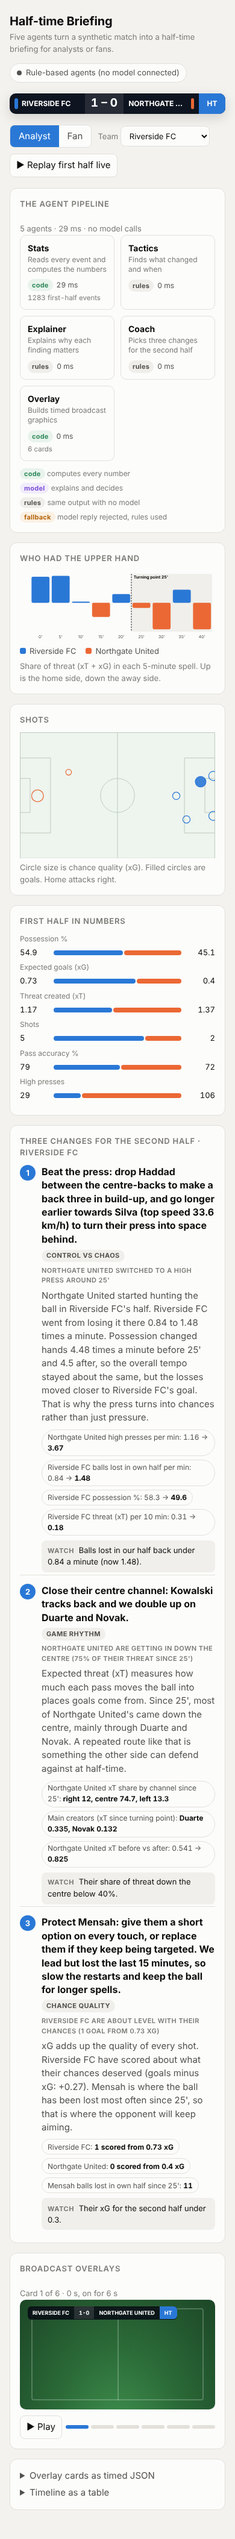
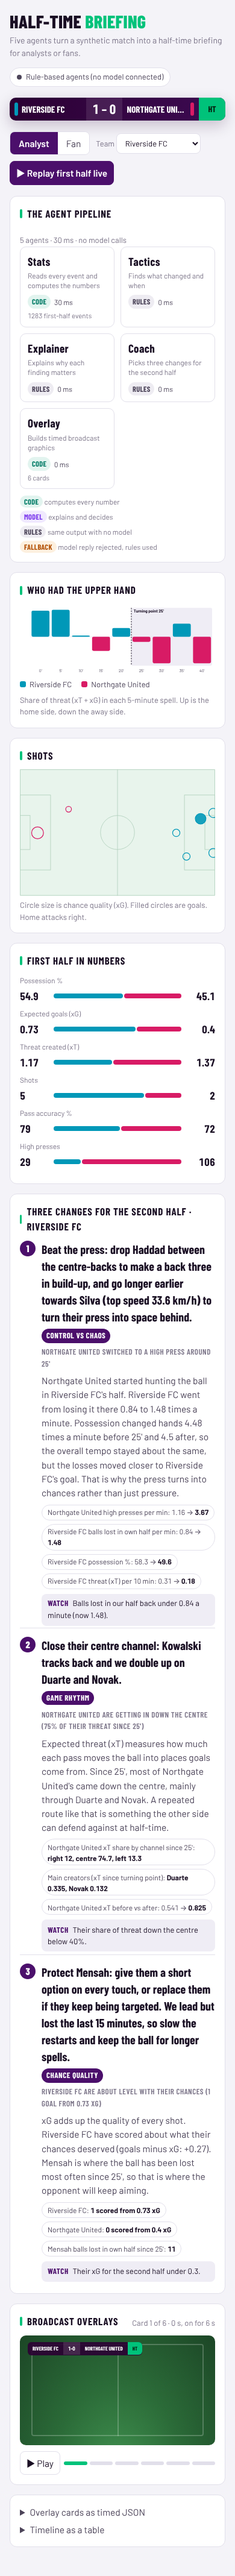
feat(ui): switch to Barlow type and a purple, cyan and magenta palette
Barlow and Barlow Condensed from Google Fonts (system fallback), deep
purple scorebug and controls, green highlight, cyan home and magenta away
in both themes. Screenshots refreshed.

Verified: ruff format --check, ruff check, pytest; headless Chromium on
seed 27 in light, dark and 390 px.

Claude-Session: https://claude.ai/code/session_0187mFhyTJEdgQixfm9bBxoV

diff --git a/static/index.html b/static/index.html
@@ -4,84 +4,96 @@
 <meta charset="utf-8">
 <meta name="viewport" content="width=device-width, initial-scale=1">
 <title>Half-time Briefing</title>
+<link rel="preconnect" href="https://fonts.googleapis.com">
+<link rel="preconnect" href="https://fonts.gstatic.com" crossorigin>
+<link href="https://fonts.googleapis.com/css2?family=Barlow:wght@400;500;600;700&family=Barlow+Condensed:wght@500;600;700;800&display=swap" rel="stylesheet">
 <style>
   :root {
     color-scheme: light;
-    --surface-0: #f3f2ef; --surface-1: #fcfcfb; --surface-2: #f0efeb; --border: #e2e0da;
-    --text-primary: #0b0b0b; --text-secondary: #52514e; --text-muted: #7a7974;
-    --home: #2a78d6; --away: #eb6834; --accent: #2a78d6; --pitch: #eef4ee; --pitch-line: #b9c9b9;
-    --model: #7a4fd6; --model-bg: #f1ecfb; --rules: #52514e; --rules-bg: #efeeea;
-    --data: #2f8a5b; --data-bg: #e8f3ec; --warn: #b5650d; --warn-bg: #fbf0e2;
-    --bug: #0e1420; --bug-text: #ffffff;
+    --surface-0: #f4f3f8; --surface-1: #ffffff; --surface-2: #efedf5; --border: #e1dfea;
+    --text-primary: #1a0f24; --text-secondary: #4c4459; --text-muted: #7b7488;
+    --home: #0098b8; --away: #d81b65; --accent: #4b0f6b; --accent-text: #ffffff; --hi: #00c27a; --hi-text: #06210f;
+    --pitch: #e8f4ec; --pitch-line: #b5d3c0;
+    --model: #7c3aed; --model-bg: #f0e9fe; --rules: #4c4459; --rules-bg: #eeecf2;
+    --data: #087f6a; --data-bg: #e2f4ef; --warn: #b45309; --warn-bg: #fdf0df;
+    --bug: linear-gradient(90deg, #2b0033, #3d0a52); --bug-text: #ffffff; --live: #ff2d55;
+    --font-body: "Barlow", system-ui, -apple-system, "Segoe UI", sans-serif;
+    --font-display: "Barlow Condensed", "Barlow", system-ui, sans-serif;
   }
   @media (prefers-color-scheme: dark) {
     :root:where(:not([data-theme="light"])) {
       color-scheme: dark;
-      --surface-0: #111110; --surface-1: #1a1a19; --surface-2: #222220; --border: #33322f;
-      --text-primary: #f0efec; --text-secondary: #c3c2b7; --text-muted: #8f8e86;
-      --home: #3987e5; --away: #d95926; --accent: #3987e5; --pitch: #1d241d; --pitch-line: #3c4a3c;
-      --model: #a685f0; --model-bg: #261f38; --rules: #c3c2b7; --rules-bg: #262624;
-      --data: #5bbf8a; --data-bg: #1a2a21; --warn: #e3a050; --warn-bg: #33261a;
-      --bug: #000000; --bug-text: #ffffff;
+      --surface-0: #0f0a17; --surface-1: #181122; --surface-2: #221a2e; --border: #33293f;
+      --text-primary: #f3f0f8; --text-secondary: #c9c2d6; --text-muted: #8f879e;
+      --home: #22c3e6; --away: #ff4f93; --accent: #7c4dff; --accent-text: #ffffff; --hi: #00e58b; --hi-text: #06210f;
+      --pitch: #14231b; --pitch-line: #2f4a3a;
+      --model: #b18cff; --model-bg: #2a1d45; --rules: #c9c2d6; --rules-bg: #282131;
+      --data: #3fd0b0; --data-bg: #12302a; --warn: #f5a524; --warn-bg: #3a2810;
+      --bug: linear-gradient(90deg, #22002a, #3d0a52); --bug-text: #ffffff; --live: #ff2d55;
     }
   }
   :root[data-theme="dark"] {
     color-scheme: dark;
-    --surface-0: #111110; --surface-1: #1a1a19; --surface-2: #222220; --border: #33322f;
-    --text-primary: #f0efec; --text-secondary: #c3c2b7; --text-muted: #8f8e86;
-    --home: #3987e5; --away: #d95926; --accent: #3987e5; --pitch: #1d241d; --pitch-line: #3c4a3c;
-    --model: #a685f0; --model-bg: #261f38; --rules: #c3c2b7; --rules-bg: #262624;
-    --data: #5bbf8a; --data-bg: #1a2a21; --warn: #e3a050; --warn-bg: #33261a;
-    --bug: #000000; --bug-text: #ffffff;
+    --surface-0: #0f0a17; --surface-1: #181122; --surface-2: #221a2e; --border: #33293f;
+    --text-primary: #f3f0f8; --text-secondary: #c9c2d6; --text-muted: #8f879e;
+    --home: #22c3e6; --away: #ff4f93; --accent: #7c4dff; --accent-text: #ffffff; --hi: #00e58b; --hi-text: #06210f;
+    --pitch: #14231b; --pitch-line: #2f4a3a;
+    --model: #b18cff; --model-bg: #2a1d45; --rules: #c9c2d6; --rules-bg: #282131;
+    --data: #3fd0b0; --data-bg: #12302a; --warn: #f5a524; --warn-bg: #3a2810;
+    --bug: linear-gradient(90deg, #22002a, #3d0a52); --bug-text: #ffffff; --live: #ff2d55;
   }
   * { box-sizing: border-box; }
   body { margin: 0; background: var(--surface-0); color: var(--text-primary);
-         font: 15px/1.5 system-ui, -apple-system, "Segoe UI", sans-serif; }
+         font: 15.5px/1.5 var(--font-body); }
+  h1, h2, h3, h4, .scorebug, .tv, .num, .node .name, .bars .v, .kind, .concept, .watch b, .tag { font-family: var(--font-display); }
   main { max-width: 1180px; margin: 0 auto; padding: 20px 16px 48px; }
   button, select { font: inherit; }
   button:disabled, select:disabled { opacity: .55; cursor: progress; }
 
   /* Header and broadcast-style scorebug */
   header { display: flex; flex-wrap: wrap; gap: 14px 24px; align-items: center; justify-content: space-between; }
-  .brand h1 { font-size: 20px; font-weight: 700; margin: 0; letter-spacing: -.01em; }
-  .brand p { margin: 2px 0 0; font-size: 13px; color: var(--text-muted); }
+  .brand h1 { font-size: 30px; font-weight: 800; margin: 0; letter-spacing: .01em; text-transform: uppercase; line-height: 1; }
+  .brand h1 em { font-style: normal; color: var(--hi); }
+  .brand p { margin: 6px 0 0; font-size: 14px; color: var(--text-muted); }
   .badge { display: inline-flex; align-items: center; gap: 7px; font-size: 13px; padding: 5px 11px;
            border-radius: 999px; border: 1px solid var(--border); background: var(--surface-1); color: var(--text-secondary); }
   .badge .dot { width: 8px; height: 8px; border-radius: 50%; background: var(--rules); }
   .badge.live .dot { background: var(--model); box-shadow: 0 0 0 3px var(--model-bg); }
   .scorebug { display: flex; align-items: stretch; margin-top: 18px; border-radius: 10px; overflow: hidden;
               background: var(--bug); color: var(--bug-text); width: fit-content; max-width: 100%;
-              box-shadow: 0 6px 20px rgba(0,0,0,.14); font-weight: 650; }
-  .scorebug .team { display: flex; align-items: center; gap: 10px; padding: 10px 16px; font-size: 18px;
+              box-shadow: 0 8px 24px rgba(43,0,51,.22); font-weight: 700; }
+  .scorebug .team { display: flex; align-items: center; gap: 10px; padding: 10px 18px; font-size: 22px;
                     text-transform: uppercase; letter-spacing: .03em; white-space: nowrap; }
   .scorebug .team::before { content: ""; width: 6px; align-self: stretch; border-radius: 3px; background: var(--c); }
   .scorebug .team.away { flex-direction: row-reverse; }
-  .scorebug .score { display: grid; place-items: center; padding: 0 18px; font-size: 26px; background: rgba(255,255,255,.1);
+  .scorebug .score { display: grid; place-items: center; padding: 0 20px; font-size: 32px; background: rgba(255,255,255,.1);
                      font-variant-numeric: tabular-nums; white-space: nowrap; }
-  .scorebug .clock { display: grid; place-items: center; padding: 0 14px; font-size: 14px; background: var(--accent);
+  .scorebug .clock { display: grid; place-items: center; padding: 0 14px; font-size: 18px; background: var(--hi); color: var(--hi-text);
                      font-variant-numeric: tabular-nums; min-width: 56px; }
-  .scorebug .clock.live { background: #d13438; }
+  .scorebug .clock.live { background: var(--live); color: #fff; }
   .scorebug.flash .score { animation: flash 1.2s ease; }
-  @keyframes flash { 0%, 100% { background: rgba(255,255,255,.1); } 30% { background: #ffd23f; color: #111; } }
+  @keyframes flash { 0%, 100% { background: rgba(255,255,255,.1); } 30% { background: var(--hi); color: var(--hi-text); } }
   @media (max-width: 600px) {
     .scorebug { width: 100%; }
-    .scorebug .team { font-size: 12px; padding: 8px; gap: 6px; letter-spacing: 0; flex: 1 1 0; min-width: 0; }
+    .scorebug .team { font-size: 15px; padding: 8px; gap: 6px; letter-spacing: 0; flex: 1 1 0; min-width: 0; }
     .scorebug .team .nm { overflow: hidden; text-overflow: ellipsis; }
-    .scorebug .score { font-size: 19px; padding: 0 10px; }
-    .scorebug .clock { min-width: 44px; padding: 0 8px; font-size: 12px; }
+    .scorebug .score { font-size: 22px; padding: 0 10px; }
+    .scorebug .clock { min-width: 44px; padding: 0 8px; font-size: 14px; }
   }
 
   .controls { display: flex; flex-wrap: wrap; gap: 10px; margin: 18px 0; align-items: center; }
   .seg { display: inline-flex; border: 1px solid var(--border); border-radius: 8px; overflow: hidden; }
   .seg button { border: 0; background: var(--surface-1); color: var(--text-secondary); padding: 7px 14px; cursor: pointer; }
-  .seg button[aria-pressed="true"] { background: var(--accent); color: #fff; }
+  .seg button[aria-pressed="true"] { background: var(--accent); color: var(--accent-text); font-weight: 600; }
   select, .btn { padding: 7px 10px; border-radius: 8px; border: 1px solid var(--border);
                  background: var(--surface-1); color: var(--text-primary); }
   .btn { cursor: pointer; }
-  .btn.primary { background: var(--text-primary); color: var(--surface-1); border-color: var(--text-primary); }
-
+  #replay { background: var(--accent); color: var(--accent-text); border-color: var(--accent); font-weight: 600; }
+  
   .card { background: var(--surface-1); border: 1px solid var(--border); border-radius: 12px; padding: 16px; }
-  .card h2 { font-size: 13px; text-transform: uppercase; letter-spacing: .06em; color: var(--text-muted); margin: 0 0 10px; font-weight: 600; }
+  .card h2 { font-size: 17px; text-transform: uppercase; letter-spacing: .05em; color: var(--text-primary); margin: 0 0 10px; font-weight: 700;
+            display: flex; align-items: center; gap: 8px; }
+  .card h2::before { content: ""; width: 4px; height: 15px; border-radius: 2px; background: var(--hi); }
   .card-head { display: flex; justify-content: space-between; align-items: baseline; gap: 12px; flex-wrap: wrap; }
   .grid { display: grid; grid-template-columns: minmax(0, 1fr) minmax(0, 1.15fr); gap: 16px; margin-top: 16px; }
   @media (max-width: 860px) { .grid { grid-template-columns: 1fr; } }
@@ -98,11 +110,11 @@
           background: var(--surface-1); transition: border-color .3s, background .3s, transform .3s; }
   .node:not(:last-child)::after { content: "→"; position: absolute; right: -18px; top: 50%; transform: translateY(-50%);
                                    color: var(--text-muted); font-size: 15px; }
-  .node .name { font-weight: 650; font-size: 14px; text-transform: capitalize; display: flex; align-items: center; gap: 6px; }
+  .node .name { font-weight: 700; font-size: 19px; text-transform: uppercase; letter-spacing: .02em; text-transform: capitalize; display: flex; align-items: center; gap: 6px; }
   .node .role { font-size: 12px; color: var(--text-muted); line-height: 1.35; margin-top: 1px; min-height: 2.7em; }
   .node .status { margin-top: 8px; font-size: 12px; display: flex; flex-wrap: wrap; gap: 4px 6px; align-items: center;
                   font-variant-numeric: tabular-nums; color: var(--text-secondary); min-height: 22px; }
-  .kind { font-size: 11px; font-weight: 650; padding: 2px 7px; border-radius: 999px; letter-spacing: .02em; white-space: nowrap; }
+  .kind { font-size: 12.5px; font-weight: 700; text-transform: uppercase; padding: 2px 7px; border-radius: 999px; letter-spacing: .02em; white-space: nowrap; }
   .kind.data { color: var(--data); background: var(--data-bg); }
   .kind.model { color: var(--model); background: var(--model-bg); }
   .kind.rules { color: var(--rules); background: var(--rules-bg); }
@@ -132,24 +144,24 @@
   .change { border-top: 1px solid var(--border); padding: 14px 0 4px; }
   .change:first-of-type { border-top: 0; padding-top: 0; }
   .change .num { display: inline-grid; place-items: center; width: 26px; height: 26px; border-radius: 50%;
-                 background: var(--accent); color: #fff; font-size: 13px; font-weight: 650; margin-right: 10px; flex: none; }
-  .change h3 { font-size: 16px; margin: 0 0 6px; display: flex; align-items: flex-start; line-height: 1.4; }
+                 background: var(--accent); color: var(--accent-text); font-size: 16px; font-weight: 800; margin-right: 10px; flex: none; }
+  .change h3 { font-size: 20px; font-weight: 700; margin: 0 0 6px; display: flex; align-items: flex-start; line-height: 1.4; }
   .change p { margin: 6px 0; color: var(--text-secondary); }
   .tags { display: flex; flex-wrap: wrap; gap: 6px; align-items: center; margin-left: 36px; }
-  .tag { font-size: 11px; font-weight: 600; letter-spacing: .04em; text-transform: uppercase; color: var(--text-muted); }
-  .concept { font-size: 11px; font-weight: 650; letter-spacing: .04em; text-transform: uppercase; padding: 2px 8px;
-             border-radius: 999px; background: var(--surface-2); color: var(--text-secondary); }
+  .tag { font-size: 13px; font-weight: 600; letter-spacing: .04em; text-transform: uppercase; color: var(--text-muted); }
+  .concept { font-size: 13px; font-weight: 700; letter-spacing: .04em; text-transform: uppercase; padding: 2px 8px;
+             border-radius: 999px; background: var(--accent); color: var(--accent-text); }
   .change .body { margin-left: 36px; }
   .chips { display: flex; flex-wrap: wrap; gap: 6px; margin: 8px 0; }
   .chip { font-size: 12px; padding: 3px 9px; border-radius: 999px; border: 1px solid var(--border); color: var(--text-secondary);
           font-variant-numeric: tabular-nums; }
   .chip b { color: var(--text-primary); font-weight: 650; }
   .watch { font-size: 13px; color: var(--text-primary); padding: 7px 10px; border-radius: 8px; background: var(--surface-2); }
-  .watch b { color: var(--text-muted); font-weight: 650; text-transform: uppercase; font-size: 11px; letter-spacing: .05em; margin-right: 4px; }
-  .fan h3 { font-size: 24px; margin: 0 0 10px; line-height: 1.25; }
+  .watch b { color: var(--accent); font-weight: 700; text-transform: uppercase; font-size: 13px; letter-spacing: .05em; margin-right: 4px; }
+  .fan h3 { font-size: 32px; font-weight: 800; margin: 0 0 10px; line-height: 1.25; }
   .fan p { margin: 8px 0; }
   .spot { margin: 12px 0; padding: 12px 14px; border-radius: 10px; border: 1px solid var(--border);
-          border-inline-start: 4px solid var(--accent); }
+          border-inline-start: 4px solid var(--hi); }
   .reveal > * { animation: rise .45s ease both; }
   .reveal > *:nth-child(2) { animation-delay: .08s; } .reveal > *:nth-child(3) { animation-delay: .16s; }
   .reveal > *:nth-child(4) { animation-delay: .24s; } .reveal > *:nth-child(5) { animation-delay: .32s; }
@@ -162,12 +174,12 @@
   .tv::after { content: ""; position: absolute; left: 50%; top: 8%; bottom: 8%; border-left: 2px solid rgba(255,255,255,.22); }
   .tv .gfx { position: absolute; z-index: 1; animation: rise .4s ease both; }
   .tv .mini-bug { left: 4%; top: 6%; display: flex; font-size: clamp(9px, 1.6vw, 13px); font-weight: 650; border-radius: 6px;
-                  overflow: hidden; background: rgba(8,12,20,.88); text-transform: uppercase; }
+                  overflow: hidden; background: rgba(43,0,51,.9); text-transform: uppercase; }
   .tv .mini-bug span { padding: 4px 8px; white-space: nowrap; }
   .tv .mini-bug .s { background: rgba(255,255,255,.12); font-variant-numeric: tabular-nums; }
-  .tv .mini-bug .ht { background: var(--accent); }
+  .tv .mini-bug .ht { background: var(--hi); color: var(--hi-text); }
   .tv .panel { left: 50%; top: 50%; transform: translate(-50%, -50%); width: 70%; padding: 3% 4%;
-               background: rgba(8,12,20,.88); border-radius: 8px; font-size: clamp(9px, 1.5vw, 13px); }
+               background: rgba(43,0,51,.9); border-radius: 8px; font-size: clamp(9px, 1.5vw, 13px); }
   .tv .panel h4 { margin: 0 0 6px; font-size: 1.15em; text-transform: uppercase; letter-spacing: .05em; }
   .tv .prow { display: grid; grid-template-columns: 3.4em 1fr 3.4em; gap: 6px; align-items: center; margin: 3px 0;
               font-variant-numeric: tabular-nums; }
@@ -175,14 +187,14 @@
   .tv .prow .bar { display: flex; height: 6px; gap: 2px; } .tv .prow .bar i { border-radius: 3px; }
   .tv .prow .r { text-align: right; }
   .tv .lower { left: 4%; right: 4%; bottom: 7%; display: flex; align-items: stretch; border-radius: 6px; overflow: hidden;
-               font-size: clamp(10px, 1.7vw, 15px); background: rgba(8,12,20,.9); }
-  .tv .lower .k { padding: 6px 10px; background: var(--accent); font-weight: 700; text-transform: uppercase; font-size: .8em;
+               font-size: clamp(10px, 1.7vw, 15px); background: rgba(43,0,51,.92); }
+  .tv .lower .k { padding: 6px 10px; background: var(--hi); color: var(--hi-text); font-weight: 700; text-transform: uppercase; font-size: .8em;
                   letter-spacing: .05em; display: grid; place-items: center; white-space: nowrap; }
   .tv .lower .t { padding: 6px 12px; font-weight: 600; }
   .tv-bar { display: flex; gap: 6px; align-items: center; margin-top: 10px; flex-wrap: wrap; }
   .tv-dots { display: flex; gap: 4px; flex: 1; min-width: 160px; }
   .tv-dots button { flex: 1; height: 6px; padding: 0; border: 0; border-radius: 3px; background: var(--border); cursor: pointer; }
-  .tv-dots button.on { background: var(--accent); }
+  .tv-dots button.on { background: var(--hi); }
 
   .feed { height: 150px; overflow: auto; font-size: 13px; color: var(--text-secondary); font-variant-numeric: tabular-nums; }
   .feed div { padding: 2px 0; animation: rise .3s ease both; }
@@ -194,7 +206,7 @@
   .bars .label { grid-column: 1 / -1; font-size: 12px; color: var(--text-muted); margin-bottom: -4px; }
   .bars .track { display: flex; gap: 2px; height: 8px; }
   .bars .track span { border-radius: 4px; transition: flex .5s ease; }
-  .bars .v { font-size: 13px; }
+  .bars .v { font-size: 18px; font-weight: 700; }
   .bars .v.r { text-align: right; }
   #tip { position: fixed; pointer-events: none; background: var(--surface-1); color: var(--text-primary);
          border: 1px solid var(--border); border-radius: 8px; padding: 6px 9px; font-size: 12px; display: none;
@@ -210,7 +222,7 @@
 <main>
   <header>
     <div class="brand">
-      <h1>Half-time Briefing</h1>
+      <h1>Half-time <em>Briefing</em></h1>
       <p>Five agents turn a synthetic match into a half-time briefing for analysts or fans.</p>
     </div>
     <span class="badge" id="backend"><span class="dot"></span><span>Checking agents…</span></span>

diff --git a/docs/5_agent_log.md b/docs/5_agent_log.md
@@ -700,3 +700,19 @@ result. No console errors besides the missing favicon. `ruff format
 
 **Not verified.** Not run against the live Foundry backend, so the model
 backend label shows the client class name as `/api/health` reports it.
+
+## 2026-10-18 · Claude · New typeface and palette (PR #7)
+
+**Changed.** At Mike's request, `static/index.html` now uses Barlow for body
+text and Barlow Condensed for headings, the scorebug, numbers and overlay
+graphics, loaded from Google Fonts with a system-font fallback if the
+fonts cannot load. New palette in both themes: deep purple for the
+scorebug, buttons and badges, a green highlight (HT clock, section marks,
+overlay captions), and cyan for the home side and magenta for the away side
+instead of blue and orange (cyan and magenta stay distinct for the common
+colour-vision deficiencies; inferred, not tested with a simulator). The
+screenshots in `docs/` are refreshed.
+
+**Verified.** Headless Chromium on seed 27 in light and dark mode and at
+390 px (no horizontal scroll); `ruff format --check`, `ruff check` and
+`pytest` green.
